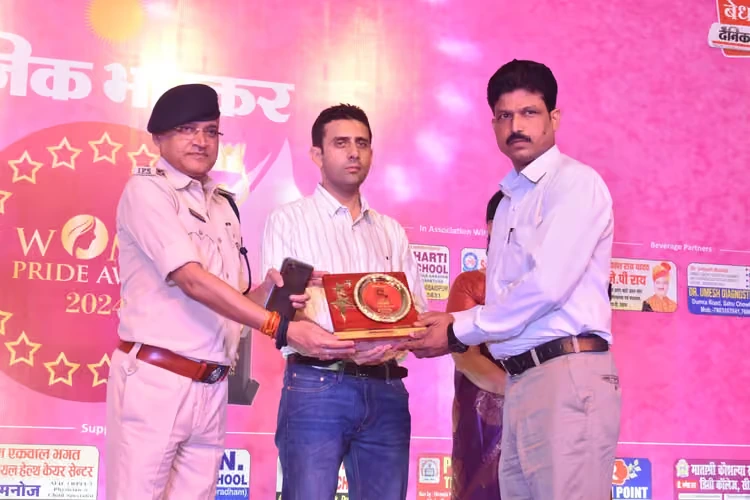
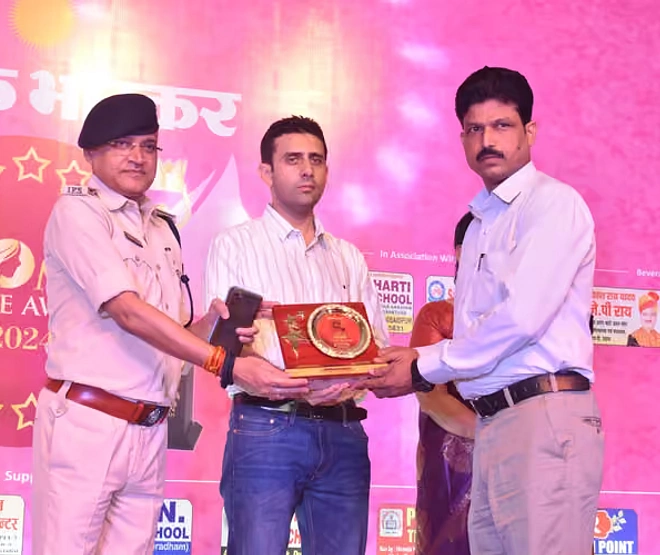
feat: resize ERP panel slideshow images to exact 660x555 with unsharp mask for pixel-perfect clarity

diff --git a/scripts/convert-assets.js b/scripts/convert-assets.js
@@ -60,7 +60,9 @@ async function convertAssets() {
     const destPath = path.join(assetsErpDir, img.dest);
 
     await sharp(srcPath)
-      .webp({ quality: 92, effort: 6 })
+      .resize(660, 555, { fit: 'cover', position: 'center' })
+      .sharpen()
+      .webp({ quality: 96, effort: 6 })
       .toFile(destPath);
     
     console.log(`Converted [${img.src}] -> [${img.dest}]`);
@@ -73,3 +75,4 @@ convertAssets().catch((err) => {
   console.error('Conversion failed:', err);
   process.exit(1);
 });
+
